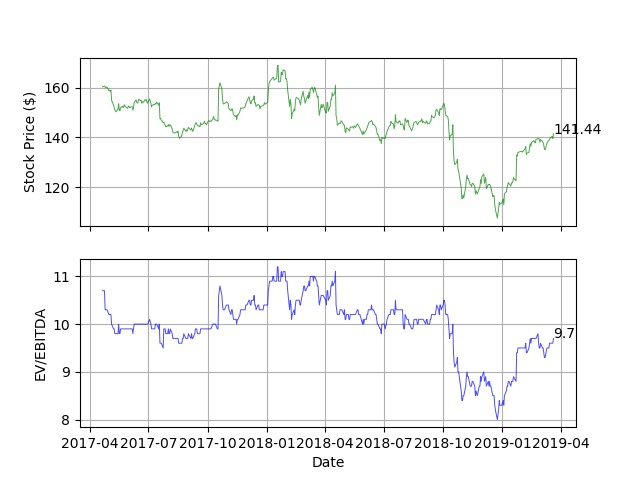
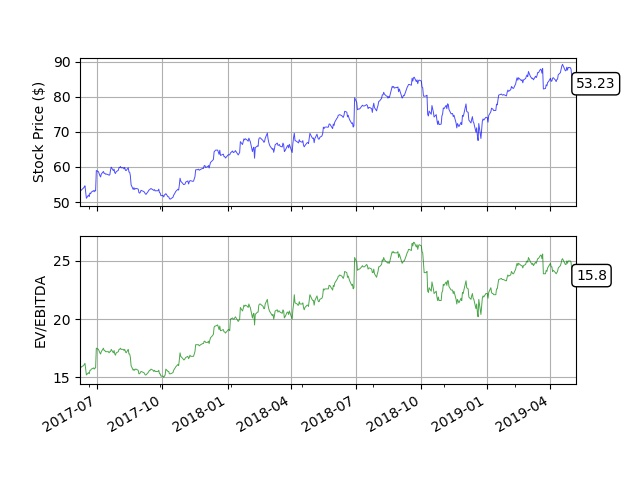
python working, latex needs updating

Changed region(s): [[0.0312, 0.125, 0.9688, 0.9688]]

diff --git a/update_own.py b/update_own.py
@@ -1,32 +1,117 @@
 import pandas as pd
 import matplotlib.pyplot as plt
+from pandas.plotting import register_matplotlib_converters
+import datetime
+
 import import_data
 
+LINE_WIDTH = 0.7
+ALPHA = 0.7 
+
+register_matplotlib_converters()
+
 config = import_data.get_config("test_files/config.txt")
-data = import_data.get_own_daily_metrics(config)
-funds = import_data.get_own_fundamentals(config)
+# data = import_data.get_own_daily_metrics(config)
+# funds = import_data.get_own_fundamentals(config)
+# events = import_data.get_own_events(config)
+
+data = import_data._read_and_standardize("test_files/own_daily_processed.csv")
+funds = import_data._read_and_standardize("test_files/own_funds_processed.csv", col="calendardate")
+events = import_data._read_and_standardize("test_files/own_events_processed.csv")
 
 with open("charts/price.txt", "w") as f:
     f.write(str(float(data["close"].iloc[0])))
 
 ## FUNDAMENTALS
 
+funds_pretty = funds.iloc[0:9]
+
+funds_pretty.columns = ["Stock Price", "Ent. Value", "EBITDA", "Gross Margin",
+                        "Sales", "Free Cash Flow", "Working Cap.", "EV/EBITDA", 
+                        "EV/Sales", "EV/FCF", "Working Cap. % of Sales"]
+
+funds_pretty.index.names = ["Date"]
+
+funds_pretty = import_data.round_col(funds_pretty, ["Ent. Value", "EBITDA", "Sales", "Free Cash Flow", "Working Cap."], to="B")
+funds_pretty.index = funds_pretty.index.map(lambda x: x.strftime("%b %y"))
+
+funds_pretty.to_csv("charts/own_fundamentals.csv")
+
+## SALES GROWTH
+
+sales_growth = funds[["revenue"]].pct_change(fill_method="ffill").iloc[1:] * 100
+sales_growth["positive"] = sales_growth["revenue"] > 0
+sales_growth.index = sales_growth.index.map(lambda x: x.strftime("%Y"))
+
+fig = plt.figure()
+
+ax = fig.add_subplot(111)
+
+sales_growth.plot(kind="bar", ax=ax,
+        color=sales_growth.positive.map({True: 'g', False: 'r'}),
+        linewidth=LINE_WIDTH, alpha=ALPHA, legend=False)
+
+ax.set_xlabel(None)
+ax.set_ylabel("Growth (%)")
+
+ax.spines["right"].set_color("none")
+ax.spines["top"].set_position("zero")
+ax.spines["bottom"].set_position("zero")
+
+if not any(sales_growth["positive"]):
+    ax.set_ylim(top=(-sales_growth["revenue"].min())/5)
+    ax.xaxis.set_ticks_position("top")
+    ax.xaxis.set_label_position("top")
+elif all(sales_growth["positive"]):
+    ax.set_ylim(bottom=(-sales_growth["revenue"].max())/5)
+
+
+fig.savefig("charts/sales_growth.jpg")
+plt.clf()
 
 ## PRICE AND EV/EBITDA
+fig = plt.figure()
+
+box_props = {"boxstyle": "round", "fc":"white"}
+
 ax1 = plt.subplot(211)
-plt.plot(data.prices, color="green", linewidth=0.7, alpha=0.7)
-plt.annotate(str(float(data.prices.iloc[-1])),
-             (data.index.iloc[-1], data.prices.iloc[-1]))
-plt.ylabel("Stock Price ($)")
+
+data.close.plot(ax=ax1, color="blue", linewidth=LINE_WIDTH, alpha=ALPHA, legend=False)
+plt.annotate(str(float(data.close.iloc[-1])), (1, data.close.iloc[0]), 
+         xycoords=("axes fraction", "data"), bbox=box_props)
+
+ax1.set_ylabel("Stock Price ($)")
 plt.setp(ax1.get_xticklabels(), visible=False)
-plt.grid()
+ax1.grid()
 
 ax2 = plt.subplot(212, sharex=ax1)
-plt.plot(data.evebitda, color="green", linewidth=0.7, alpha=0.7)
-plt.annotate(str(float(data.evebitda.iloc[-1])),
-             (data.index.iloc[-1], data.evebitda.iloc[-1]))
-plt.ylabel("EV/EBITDA")
-plt.xlabel("Date")
-plt.grid()
+
+data.evebitda.plot(ax=ax2, color="green", linewidth=LINE_WIDTH, alpha=ALPHA)
+plt.annotate(str(float(data.evebitda.iloc[-1])), (1, data.evebitda.iloc[0]), 
+         xycoords=("axes fraction", "data"), bbox=box_props)
+
+ax2.set_ylabel("EV/EBITDA")
+ax2.set_xlabel(None)
+ax2.grid()
 
 plt.savefig("charts/graph.jpg")
+plt.clf()
+
+## COMPANY EVENTS
+events = events[(events.index > min(data.index)) & (events.index < max(data.index))]
+
+fig = plt.figure()
+
+ax = fig.add_subplot(111)
+
+data.close.plot(ax=ax, color="green", linewidth=LINE_WIDTH, alpha=ALPHA)
+
+for row in events.itertuples():
+    plt.annotate("*", (row.Index, data["close"][data.index == row.Index]), ha="center")
+
+ax.set_xlabel(None)
+ax.set_ylabel("Stock Price ($)")
+plt.grid()
+
+fig.savefig("charts/events.jpg")
+plt.clf()

diff --git a/import_data.py b/import_data.py
@@ -39,7 +39,7 @@ def get_own_fundamentals(config, key_file="key.txt"):
     #                         qopts = {"columns": ["calendardate", "price", "ev", "ebitda",
     #                                              "grossmargin", "revenue", "fcf", "workingcapital"]})
 
-    data = _read_and_standardize("test_files/own_funds.csv", date_col="calendardate")
+    data = _read_and_standardize("test_files/own_funds.csv", col="calendardate")
 
     data["ev/ebitda"] = data["ev"] / data["ebitda"]
     data["ev/sales"] = data["ev"] / data["revenue"]
@@ -59,11 +59,11 @@ def get_comps(config, key_file="key.txt", config_file="config.txt", end=2019, ye
     #                             qopts={"columns": ["ticker", "name", "category",
     #                                                "siccode", "scalemarketcap", "lastupdated"]})
 
-    data = _read_and_standardize("test_files/comps.csv", date_col="lastupdated")
+    data = _read_and_standardize("test_files/comps.csv", col="lastupdated")
 
     data["scalemarketcap"] = data["scalemarketcap"].apply(lambda x: int(x[0]) if x else None)
     # keep only scale category number
-    data = data.groupby("ticker").apply(lambda x: x[x["lastupdated"] == max(x["lastupdated"])])
+    data = data.groupby("ticker").apply(lambda x: x[x.index == max(x.index)])
     # remove name duplicates, selecting most recent
     data.index = data.droplevel(level=1)
     data = data.drop_duplicates()
@@ -110,14 +110,12 @@ def get_comp_fundamentals(comps, key_file="key.txt"):
     #                                 qopts={"columns": ["ticker", "calendardate", "price", "ev", 
     #                                                    "marketcap", "ebitda", "revenue", "fcf"]})
                                                        
-    data = _read_and_standardize("test_files/comp_metrics.csv", date_col="calendardate")
+    data = _read_and_standardize("test_files/comp_metrics.csv", col=["calendardate", "ticker"])
 
     data["ev/ebitda"] = data["ev"] / data["ebitda"]
     data["ev/sales"] = data["ev"] / data["revenue"]
     data["ev/fcf"] = data["ev"] / data["fcf"]
     # create new metrics 
-
-    data = _standardize_index(data)
 
     return data
     
@@ -130,8 +128,18 @@ def get_daily_comp_metrics(comps, key_file="key.txt"):
 
     return comp_metrics
 
-def get_press_releases():
-    pass
+def get_own_events(config, key_file="key.txt"):
+    
+    _set_quandl_api_key(key_file)
+
+    # events = quandl.get_table("SHARADAR/EVENTS", ticker=[config["ticker"]], 
+    #                           qopts={"columns":["date", "eventcodes"]})
+
+    events = _read_and_standardize("test_files/own_events.csv")
+
+    events["eventcodes"] = events["eventcodes"].map(lambda x: x.split("|"))
+
+    return events
 
 def get_config(file):
 
@@ -145,18 +153,35 @@ def get_config(file):
 
     return config
 
+def round_col(df, cols, to="M"):
+    new_cols = {}
+    div = 10**(9 if to == "B" else 6 if to == "M" else 3 if to == "k" else 0)
+
+    for c in cols:
+        new_cols[c] = "{} (${})".format(c, to)
+        df[c] = df[c] / div
+
+    return df.rename(columns=new_cols, inplace=False)
+
 def _standardize_index(df):
     return df.set_index(pd.Series(range(len(df))))
 
-def _read_and_standardize(file, date_col="date"):
-    result = pd.read_csv(file, index_col=0,
+def _read_and_standardize(file, col="date"):
+
+    date_col = col[0] if isinstance(col, list) else col
+
+    result = pd.read_csv(file, index_col=col,
                          converters={date_col: lambda x: datetime.strptime(x, "%Y-%m-%d")})
+
+    if "None" in result.columns:
+        del result["None"]
+
     return result.where(pd.notnull(result), None)
 
 def _set_quandl_api_key(file):
 
     with open(file, "r") as key:
-        quandl.ApiConfig.api_key = key.readline()
+        quandl.ApiConfig.api_key = key.readline().rstrip("\n")
 
 
 

diff --git a/update_comps.py b/update_comps.py
@@ -1,17 +1,73 @@
 import import_data
 import pandas as pd
+import matplotlib.pyplot as plt
 
 config = import_data.get_config("test_files/config.txt")
-comps = import_data.get_comps(config)
-comp_funds = import_data.get_comp_fundamentals([*comps["ticker"]])
+# comps = import_data.get_comps(config)
+# comp_funds = import_data.get_comp_fundamentals([*comps["ticker"]])
 
-comp_funds_latest = comp_funds.groupby("ticker").apply(lambda x: x[x["calendardate"] == max(x["calendardate"])])
+comps = pd.read_csv("test_files/comps_processed.csv")
+comp_funds = import_data._read_and_standardize("test_files/comps_funds_processed.csv", col=["calendardate", "ticker"])
+
+
+# BASIC COMPS
+comp_funds_latest = comp_funds.groupby("ticker").apply(lambda x: x[x.index.get_level_values(0) == max(x.index.get_level_values(0))])
 # leave only latest metrics
-comp_funds_latest.index = comp_funds_latest.index.droplevel()
+comp_funds_latest.index = comp_funds_latest.index.droplevel(0)
+# keep ticker as index
 
 comps_merged = pd.merge(left=comp_funds_latest, right=comps, 
-                        on=["ticker"],
+                        on=["ticker"], left_index=True,
                         how="left")
 
 comps_merged = comps_merged[["name", "ticker", "price", "marketcap", "ev/ebitda", "ev/sales", "ev/fcf"]]
 # maintail relevant columns
+
+comps_merged.columns = ["Name", "Ticker", "Stock Price", "Market Cap.", "EV/EBITDA", "EV/SALES", "EV/FCF"]
+comps_merged = comps_merged.set_index("Ticker")
+# make ticker index
+
+comps_merged.to_csv("charts/comps.csv")
+
+## COMPS GRAPH
+fun = lambda x: (x / x.loc[(x.index.get_level_values(0).min(), x.index.get_level_values(1)[0])]) * 100
+comp_funds["price_indexed"] = comp_funds.price.groupby("ticker").transform(fun)
+
+def plot_groups(df, y_col, group=None, level=None, drop_level=None, ax=None, colors=["red", "green", "blue", "orange", "yellow", "purple"]):
+    """
+    Precondition: len(groups) <= 6
+    groups to be plotted based on index
+    """
+
+    if group:
+        grouped = df.groupby(group)
+    elif level:
+        grouped = df.groupby(level=level)
+
+    for i, group_info in enumerate(grouped):
+
+        if drop_level:
+            group_info[1].index = group_info[1].index.droplevel(drop_level)
+
+        group_info[1][y_col].plot(ax=ax, color=colors[i])
+        # plot grapth for each group precondition of at most 6 groups
+
+fig = plt.figure()
+
+ax1 = fig.add_subplot(211)
+
+plot_groups(comp_funds, "price_indexed", level=1, drop_level=1, ax=ax1)
+
+ax1.set_xlabel(None)
+ax1.set_ylabel("Indexed Stock Price")
+plt.grid()
+
+ax2 = fig.add_subplot(212, sharex=ax1)
+
+plot_groups(comp_funds, "ev/ebitda", level=1, drop_level=1, ax=ax2)
+
+ax2.set_xlabel(None)
+ax2.set_ylabel("EV/EBITDA")
+plt.grid()
+
+fig.savefig("charts/comps_graph.jpg")

diff --git a/companyReport.tex b/companyReport.tex
@@ -4,6 +4,8 @@
 \usepackage{titling}
 \usepackage[margin=2cm]{geometry}
 \usepackage{graphicx}
+\usepackage{subcaption}
+\usepackage{csvsimple}
 
 \titleformat{\section}[runin]
 {\bfseries\Large}
@@ -32,7 +34,7 @@ renatomatz@gmail.com -- https://www.rmatz.xyz
 
 \vspace{.1cm}{\large\bfseries\ticker}
 
-\$\input{price.txt}
+\$\input{charts/price.txt}
 \end{minipage}
 \vspace{.5cm}
 \hline\hline
@@ -52,14 +54,43 @@ renatomatz@gmail.com -- https://www.rmatz.xyz
 
 \section{Company Overview}
 
-\begin{figure}[!h]
-\includegraphics[width=\linewidth]{graph.jpg}
-\end{figure}
-
 \section{Financials}
 
 \section{Strategic}
 
 \section{Recomendation}
+
+\pagebreak
+\section{Appendix}
+
+\csvtotabular{charts/own_fundamentals.csv}
+\begin{figure}[!h]
+
+\begin{subfigure}[t]{0.6\linewidth}
+\includegraphics[width=\linewidth]{charts/graph.jpg}
+\caption{Stock Prices and EV/EBITDA}	
+\end{subfigure}
+
+\begin{subfigure}[b]{0.4\linewidth}
+\includegraphics[width=\linewidth]{charts/events.jpg}
+\caption{Corporate Events}
+\end{subfigure}
+
+\begin{subfigure}[b]{0.4\linewidth}
+\includegraphics[width=\linewidth]{charts/sales_growth.jpg}
+\caption{Sales Growth}
+\end{subfigure}
+
+\end{figure}
+\caption{\company Analysis}
+
+\csvtotabular{charts/comps.csv}
+\begin{figure}[!h]
+
+\includegraphics[width=\linewidth]{charts/comps_graph.jpg}
+
+\end{figure}
+
+
 
 \end{document}
